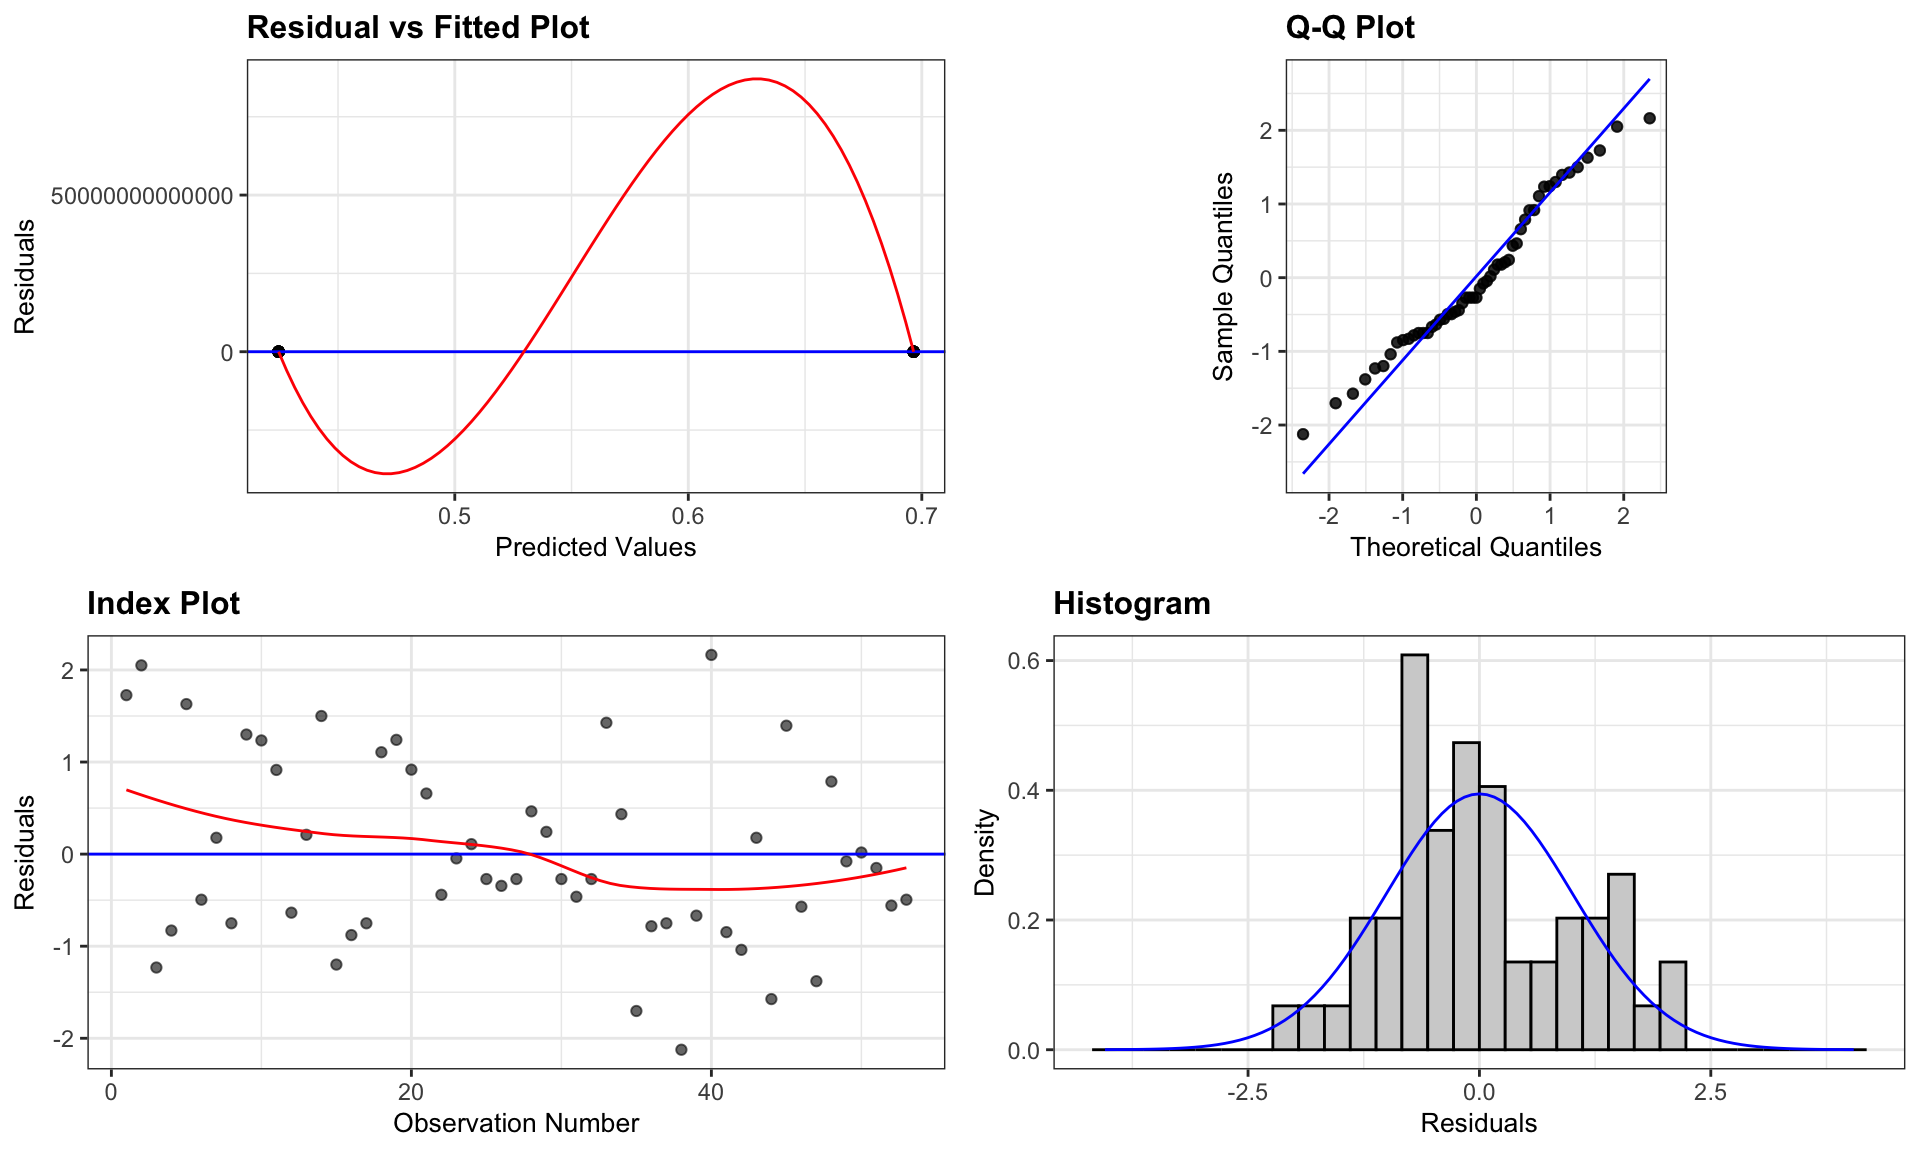
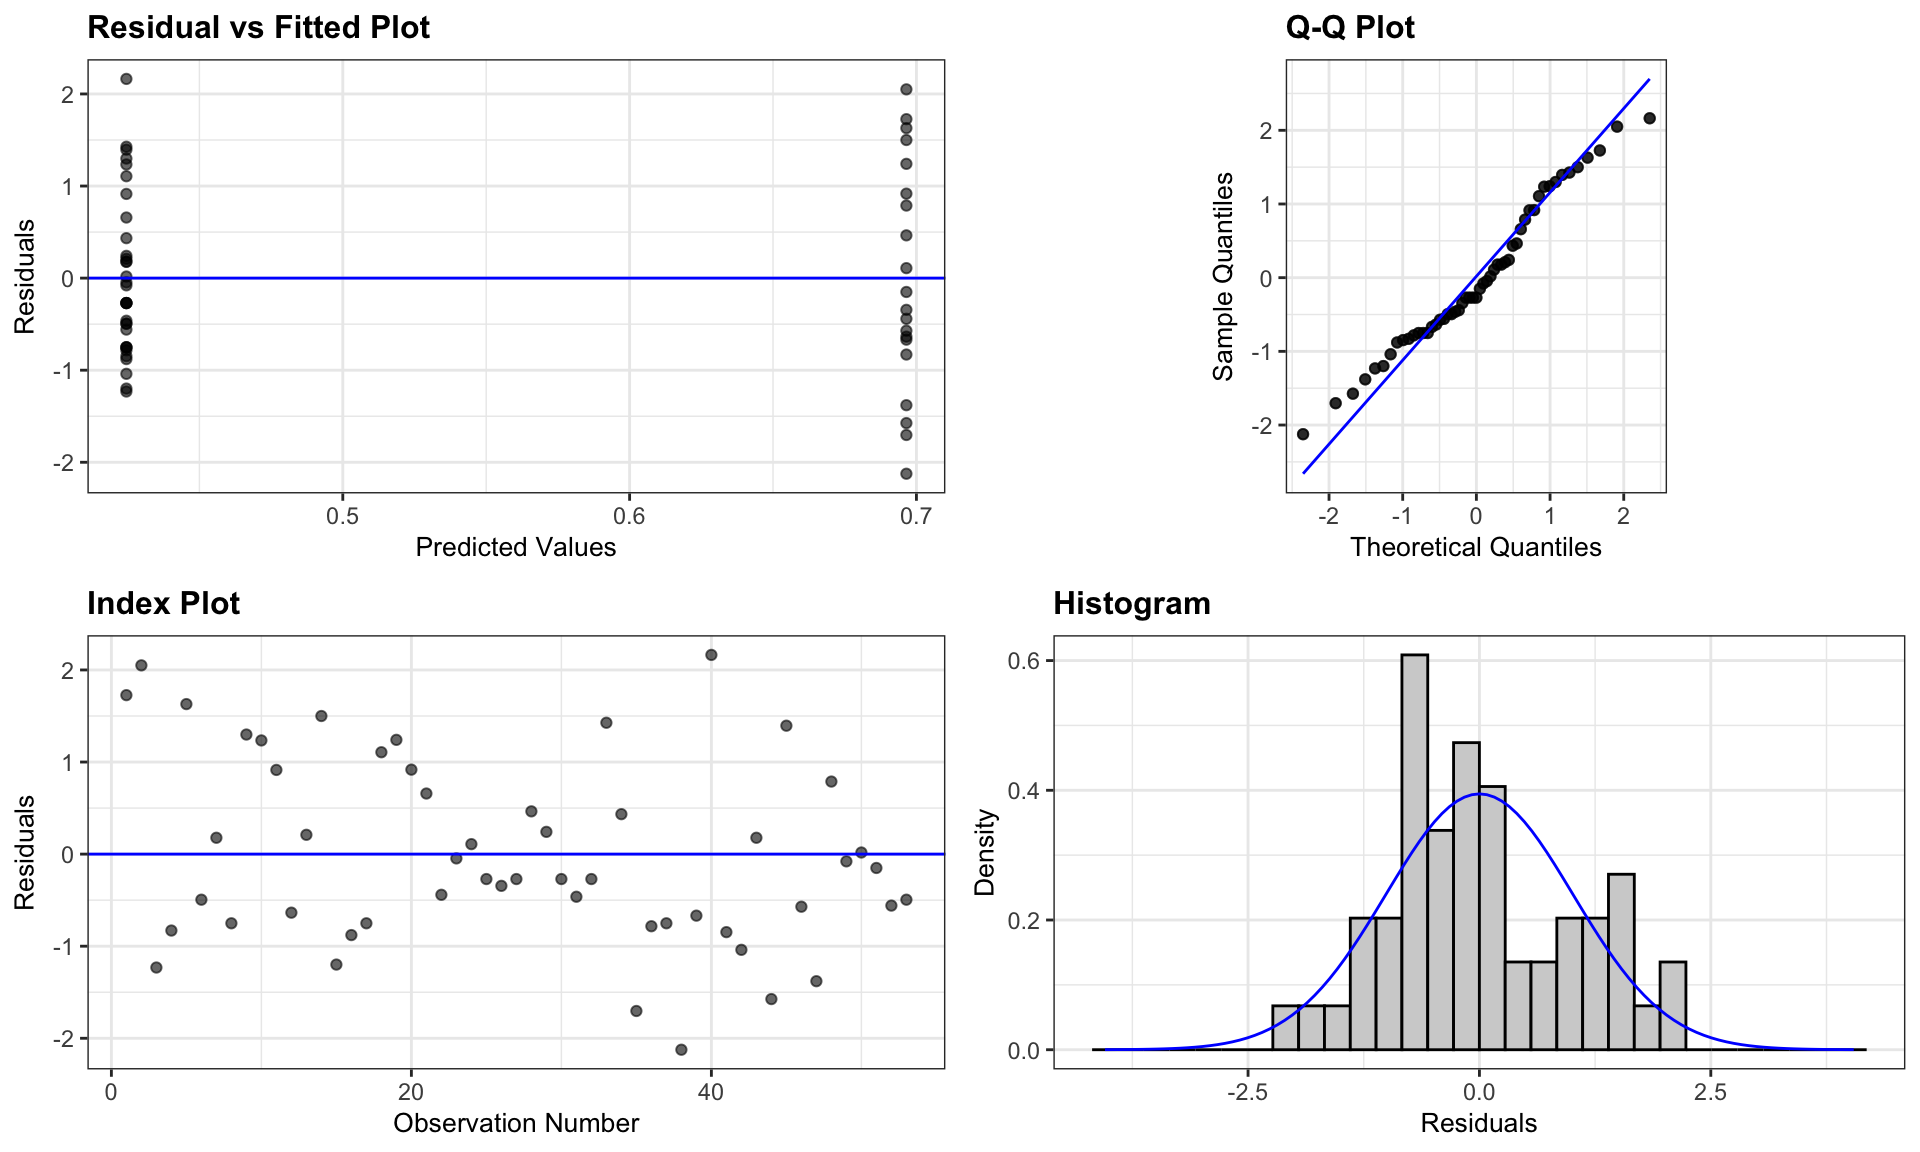
fixed ch5 figures

diff --git a/docs/Ch5.html b/docs/Ch5.html
@@ -491,7 +491,7 @@ I. Build regression models involving nonlinear terms and interactions in R.</p>
 <div class="code-copy-outer-scaffold"><div class="sourceCode cell-code" id="cb1"><pre class="sourceCode r code-with-copy"><code class="sourceCode r"><span id="cb1-1"><a href="#cb1-1" aria-hidden="true" tabindex="-1"></a>M_Lakes_merc_loc <span class="ot">&lt;-</span> <span class="fu">lm</span>(<span class="at">data=</span>FloridaLakes, Mercury <span class="sc">~</span> Location)</span></code></pre></div><button title="Copy to Clipboard" class="code-copy-button"><i class="bi"></i></button></div>
 </div>
 <div class="cell">
-<div class="code-copy-outer-scaffold"><div class="sourceCode cell-code" id="cb2"><pre class="sourceCode r code-with-copy"><code class="sourceCode r"><span id="cb2-1"><a href="#cb2-1" aria-hidden="true" tabindex="-1"></a><span class="fu">resid_panel</span>(<span class="at">model =</span> M_Lakes_merc_loc)</span></code></pre></div><button title="Copy to Clipboard" class="code-copy-button"><i class="bi"></i></button></div>
+<div class="code-copy-outer-scaffold"><div class="sourceCode cell-code" id="cb2"><pre class="sourceCode r code-with-copy"><code class="sourceCode r"><span id="cb2-1"><a href="#cb2-1" aria-hidden="true" tabindex="-1"></a><span class="fu">resid_panel</span>(<span class="at">model =</span> M_Lakes_merc_loc, <span class="at">smoother=</span><span class="cn">FALSE</span>)</span></code></pre></div><button title="Copy to Clipboard" class="code-copy-button"><i class="bi"></i></button></div>
 <div class="cell-output-display">
 <div>
 <figure class="figure">
@@ -2397,12 +2397,12 @@ Signif. codes:  0 '***' 0.001 '**' 0.01 '*' 0.05 '.' 0.1 ' ' 1</code></pre>
 <div class="code-copy-outer-scaffold"><div class="sourceCode cell-code" id="cb155"><pre class="sourceCode r code-with-copy"><code class="sourceCode r"><span id="cb155-1"><a href="#cb155-1" aria-hidden="true" tabindex="-1"></a><span class="fu">head</span>(HomesForSale)</span></code></pre></div><button title="Copy to Clipboard" class="code-copy-button"><i class="bi"></i></button></div>
 <div class="cell-output cell-output-stdout">
 <pre><code>  State Price Size Beds Baths
-1    NJ   375  2.1    3   2.5
-2    NJ   200  0.9    1   1.0
-3    NJ   599  2.3    5   2.5
-4    NJ   365  2.1    3   3.0
-5    NJ   220  2.1    5   2.0
-6    NJ   250  1.9    4   2.5</code></pre>
+1    NJ   375 2100    3   2.5
+2    NJ   200  900    1   1.0
+3    NJ   599 2300    5   2.5
+4    NJ   365 2100    3   3.0
+5    NJ   220 2100    5   2.0
+6    NJ   250 1900    4   2.5</code></pre>
 </div>
 </div>
 <section id="section" class="level3 unnumbered">
@@ -2464,12 +2464,12 @@ Residuals:
 -1.77915 -0.27947 -0.03962  0.29892  1.69701 
 
 Coefficients:
-            Estimate Std. Error t value             Pr(&gt;|t|)    
-(Intercept)  4.84306    0.13469  35.957 &lt; 0.0000000000000002 ***
-Size         0.52416    0.04409  11.888 &lt; 0.0000000000000002 ***
-StateNJ     -0.13825    0.13835  -0.999             0.319735    
-StateNY     -0.01309    0.13842  -0.095             0.924802    
-StatePA     -0.47680    0.13860  -3.440             0.000811 ***
+               Estimate  Std. Error t value             Pr(&gt;|t|)    
+(Intercept)  4.84305779  0.13469132  35.957 &lt; 0.0000000000000002 ***
+Size         0.00052416  0.00004409  11.888 &lt; 0.0000000000000002 ***
+StateNJ     -0.13825434  0.13834756  -0.999             0.319735    
+StateNY     -0.01309401  0.13842249  -0.095             0.924802    
+StatePA     -0.47679917  0.13860379  -3.440             0.000811 ***
 ---
 Signif. codes:  0 '***' 0.001 '**' 0.01 '*' 0.05 '.' 0.1 ' ' 1
 
@@ -2483,7 +2483,7 @@ F-statistic: 40.76 on 4 and 115 DF,  p-value: &lt; 0.00000000000000022</code></p
 <div class="code-copy-outer-scaffold"><div class="sourceCode cell-code" id="cb162"><pre class="sourceCode r code-with-copy"><code class="sourceCode r"><span id="cb162-1"><a href="#cb162-1" aria-hidden="true" tabindex="-1"></a><span class="fu">exp</span>(M_Homes_logprice_size_state<span class="sc">$</span>coefficients)</span></code></pre></div><button title="Copy to Clipboard" class="code-copy-button"><i class="bi"></i></button></div>
 <div class="cell-output cell-output-stdout">
 <pre><code>(Intercept)        Size     StateNJ     StateNY     StatePA 
-126.8566607   1.6890426   0.8708772   0.9869913   0.6207672 </code></pre>
+126.8566607   1.0005243   0.8708772   0.9869913   0.6207672 </code></pre>
 </div>
 </div>
 <p>Write sentences interpreting each of the five estimates in context. If a parameter does not have a meaningful interpretation, explain why.</p>
@@ -2515,16 +2515,16 @@ F-statistic: 40.76 on 4 and 115 DF,  p-value: &lt; 0.00000000000000022</code></p
 <div class="code-copy-outer-scaffold"><div class="sourceCode cell-code" id="cb164"><pre class="sourceCode r code-with-copy"><code class="sourceCode r"><span id="cb164-1"><a href="#cb164-1" aria-hidden="true" tabindex="-1"></a><span class="fu">exp</span>(<span class="fu">predict</span>(M_Homes_logprice_size_state, <span class="at">newdata=</span><span class="fu">data.frame</span>(<span class="at">Size=</span><span class="dv">2000</span>, <span class="at">State=</span><span class="st">"NJ"</span>), </span>
 <span id="cb164-2"><a href="#cb164-2" aria-hidden="true" tabindex="-1"></a>            <span class="at">interval=</span><span class="st">"confidence"</span>, <span class="at">level=</span><span class="fl">0.95</span>))</span></code></pre></div><button title="Copy to Clipboard" class="code-copy-button"><i class="bi"></i></button></div>
 <div class="cell-output cell-output-stdout">
-<pre><code>  fit lwr upr
-1 Inf Inf Inf</code></pre>
+<pre><code>       fit      lwr      upr
+1 315.1747 259.5502 382.7202</code></pre>
 </div>
 </div>
 <div class="cell">
 <div class="code-copy-outer-scaffold"><div class="sourceCode cell-code" id="cb166"><pre class="sourceCode r code-with-copy"><code class="sourceCode r"><span id="cb166-1"><a href="#cb166-1" aria-hidden="true" tabindex="-1"></a><span class="fu">exp</span>(<span class="fu">predict</span>(M_Homes_logprice_size_state, <span class="at">newdata=</span><span class="fu">data.frame</span>(<span class="at">Size=</span><span class="dv">2000</span>, <span class="at">State=</span><span class="st">"NJ"</span>), </span>
 <span id="cb166-2"><a href="#cb166-2" aria-hidden="true" tabindex="-1"></a>            <span class="at">interval=</span><span class="st">"prediction"</span>, <span class="at">level=</span><span class="fl">0.95</span>))</span></code></pre></div><button title="Copy to Clipboard" class="code-copy-button"><i class="bi"></i></button></div>
 <div class="cell-output cell-output-stdout">
-<pre><code>  fit lwr upr
-1 Inf Inf Inf</code></pre>
+<pre><code>       fit      lwr      upr
+1 315.1747 107.1548 927.0245</code></pre>
 </div>
 </div>
 </section>
@@ -2535,14 +2535,14 @@ F-statistic: 40.76 on 4 and 115 DF,  p-value: &lt; 0.00000000000000022</code></p
 <div class="code-copy-outer-scaffold"><div class="sourceCode cell-code" id="cb168"><pre class="sourceCode r code-with-copy"><code class="sourceCode r"><span id="cb168-1"><a href="#cb168-1" aria-hidden="true" tabindex="-1"></a><span class="fu">predict</span>(M_Homes_price_size_state, <span class="at">newdata=</span><span class="fu">data.frame</span>(<span class="at">Size=</span><span class="dv">2000</span>, <span class="at">State=</span><span class="st">"NJ"</span>), <span class="at">interval=</span><span class="st">"confidence"</span>, <span class="at">level=</span><span class="fl">0.95</span>)</span></code></pre></div><button title="Copy to Clipboard" class="code-copy-button"><i class="bi"></i></button></div>
 <div class="cell-output cell-output-stdout">
 <pre><code>       fit      lwr      upr
-1 794272.6 630522.1 958023.1</code></pre>
+1 330.2193 147.9952 512.4434</code></pre>
 </div>
 </div>
 <div class="cell">
 <div class="code-copy-outer-scaffold"><div class="sourceCode cell-code" id="cb170"><pre class="sourceCode r code-with-copy"><code class="sourceCode r"><span id="cb170-1"><a href="#cb170-1" aria-hidden="true" tabindex="-1"></a><span class="fu">predict</span>(M_Homes_price_size_state, <span class="at">newdata=</span><span class="fu">data.frame</span>(<span class="at">Size=</span><span class="dv">2000</span>, <span class="at">State=</span><span class="st">"NJ"</span>), <span class="at">interval=</span><span class="st">"prediction"</span>, <span class="at">level=</span><span class="fl">0.95</span>)</span></code></pre></div><button title="Copy to Clipboard" class="code-copy-button"><i class="bi"></i></button></div>
 <div class="cell-output cell-output-stdout">
-<pre><code>       fit    lwr      upr
-1 794272.6 630519 958026.1</code></pre>
+<pre><code>       fit       lwr      upr
+1 330.2193 -682.2227 1342.661</code></pre>
 </div>
 </div>
 <p>How do the predicted prices and confidence and prediction intervals for the model without the log transformation compare to those from the model with the transformation? Which do you think are more reliable? Why?</p>
